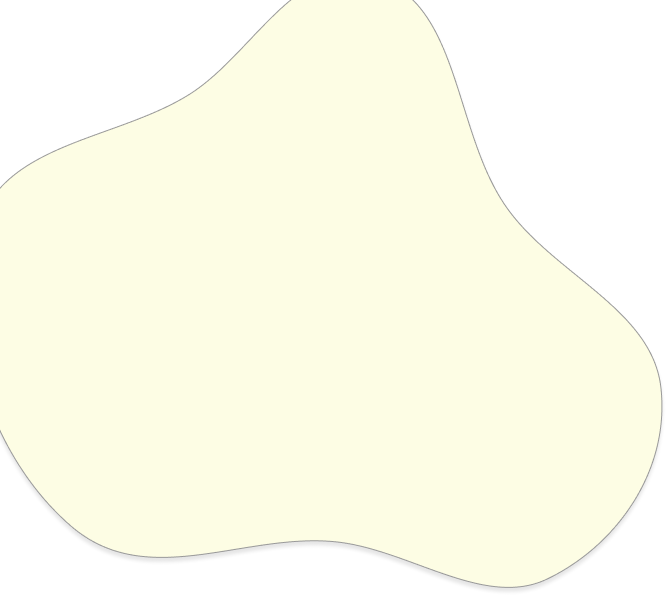
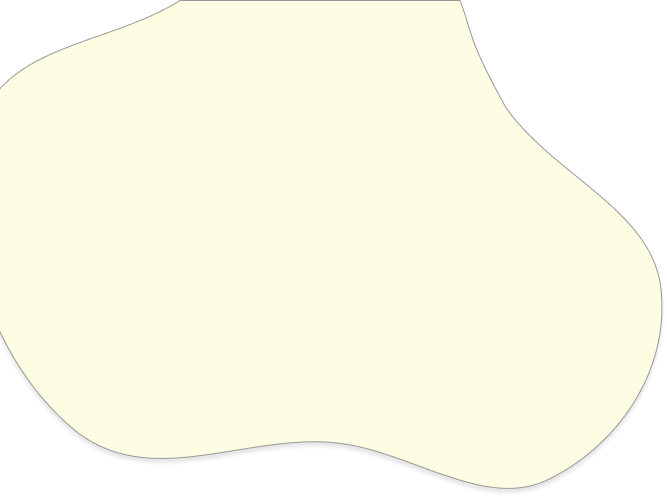
index styling

diff --git a/src/app/components/pages/index/index.component.scss b/src/app/components/pages/index/index.component.scss
@@ -4,19 +4,16 @@ main {
     font-family: var(--text-primary-font);
     display: grid;
     grid-template-columns: 1fr 1fr;
-    margin-top: 10vh;
+    margin-top: 15vh;
 
     section {
-
         .index-left {
-            margin-left: 5vw;
-
+            margin-left: 7vw;
             h1 {
-            margin: 22vh 10vw 18vh 0;
+            margin: 11vh 6vw 14vh 0;
             color: var(--text-primary-color);
             font-size: 40px;
             }
-
             a {
                 padding: 1rem 3rem;
                 border-radius: 40px;
@@ -26,17 +23,17 @@ main {
                 box-shadow: 2px 2px 5px 1px rgba(0, 0, 0, 0.2);
             }
         }
-        
-        .vector {
-            width: 42vw;
-            position: absolute;
-            top: 0;
-            left: 0;
-            z-index: -1;
-        }
 
         .index-img {
-            width: 50vw;
+            max-width: 50vw;
         }
     }
+}
+
+.vector {
+    width: 48vw;
+    position: absolute;
+    top: 50px;
+    left: 0;
+    z-index: -1;
 }

diff --git a/src/app/components/pages/index/index.component.html b/src/app/components/pages/index/index.component.html
@@ -1,7 +1,7 @@
 <app-header-session></app-header-session>
+<img src="../../../../assets/index/Vector.png" alt="Vector" class="vector">
 <main>
     <section>
-        <img src="../../../../assets/index/Vector.png" alt="Vector" class="vector">
         <div class="index-left">
             <h1>Compartir departamento o buscar compañero nunca fue tan fácil y seguro</h1>
             <a [routerLink]="['/login']">Conócenos</a>
